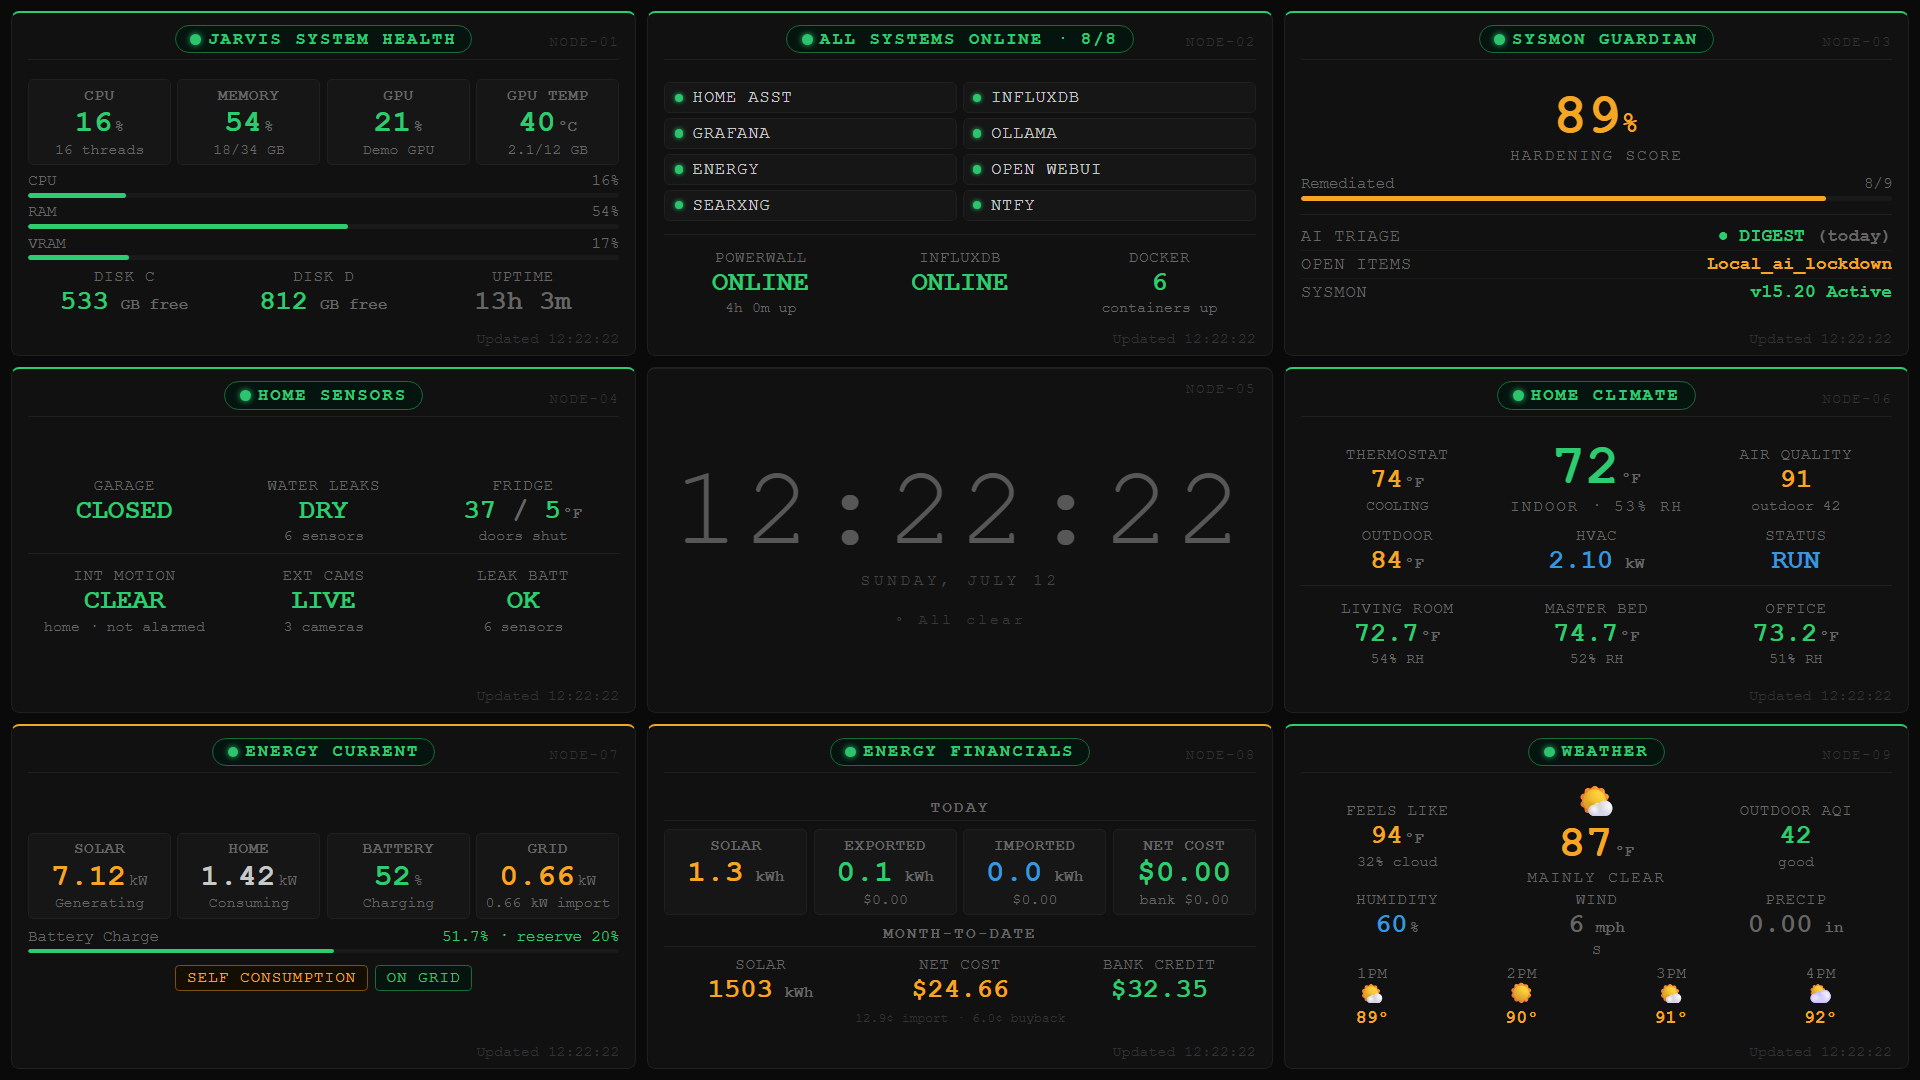
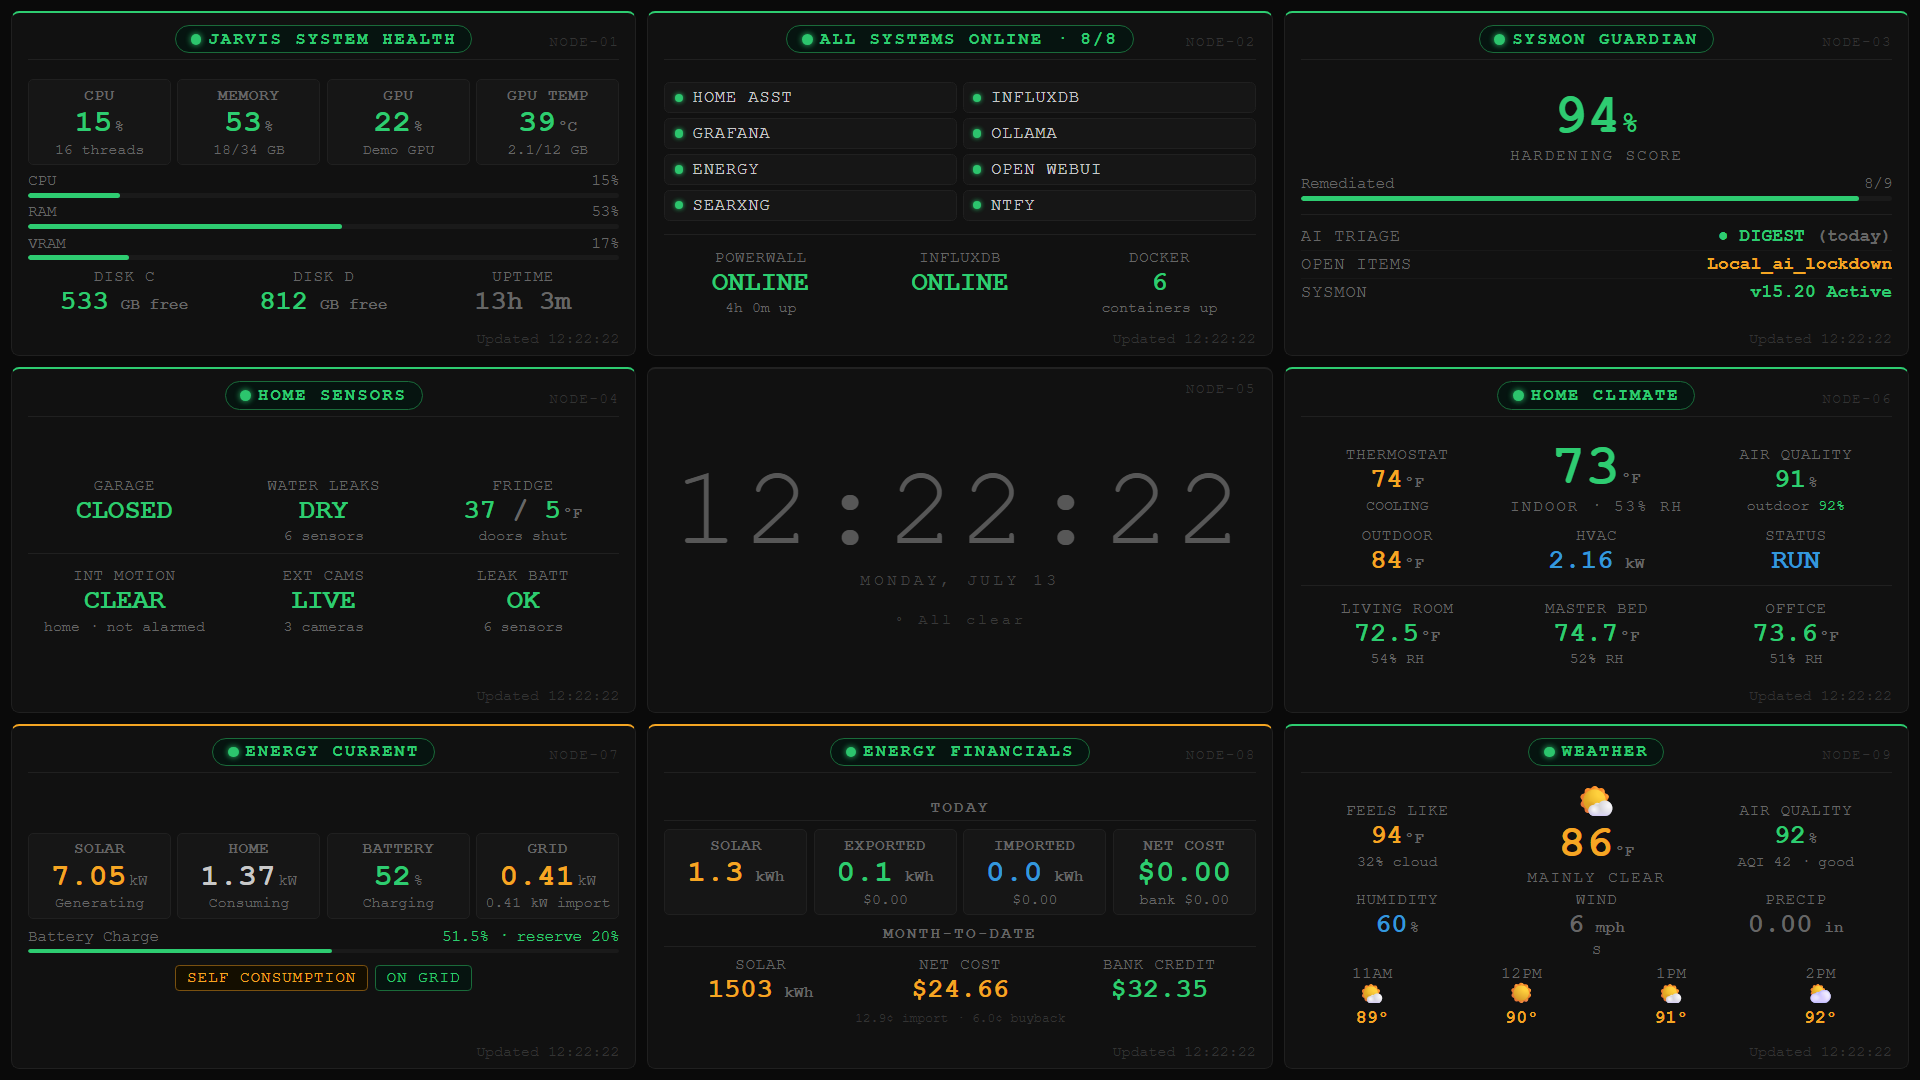
Normalise indoor/outdoor air quality onto one scale
The two AQI readings used opposite scales under the same label: indoor is a
0-100 score (higher = better), outdoor is EPA AQI (lower = better). Good air
read as 94 indoors and 18 outdoors - technically correct, instantly misread.

Both are now converted to a 0-100 'higher is better' score and coloured by one
rule (>=90 good, >=75 fair). The conversion follows the EPA's own category
boundaries, so AQI 50 maps to exactly 90 and the colours never contradict the
official bands - a naive 100-aqi would have painted 'Good' amber.

The raw EPA index is kept in the sub-label, and scores are suffixed with % so
the normalised number can't be mistaken for an EPA reading.

diff --git a/index.html b/index.html
@@ -1297,17 +1297,57 @@ const C2F = c => (c * 9 / 5) + 32;
 const AQI_IN  = E.aqiIndoor  || { entity: '', scale: 'score' };
 const AQI_OUT = E.aqiOutdoor || { entity: '', scale: 'epa' };
 
-function aqiClass(v, scale) {
-  if (v == null || isNaN(v)) return 'muted';
-  return scale === 'epa'
-    ? (v <= 50 ? 'green' : v <= 100 ? 'amber' : 'red')    // lower = better
-    : (v >= 95 ? 'green' : v >= 75  ? 'amber' : 'red');   // higher = better
+// ONE SCALE, BOTH SENSORS.
+//
+// Previously each sensor was coloured correctly for its OWN scale — which was
+// honest but unreadable. The two sat side by side, both labelled "AQI", running
+// in OPPOSITE directions: good air read as 94 indoors and 18 outdoors. On a wall
+// you read a number in half a second. Two contradictory scales under one label
+// is worse than showing nothing, because it looks like it means something.
+//
+// So we NORMALISE instead: every sensor is converted to a 0-100 quality score
+// (higher = better) and then coloured by one rule. The raw EPA index is kept in
+// the sub-label — it's the number every weather app shows, and discarding it
+// would be its own kind of lying.
+//
+// epaToScore() maps EPA AQI along the EPA's OWN category boundaries, so the
+// colours agree with the official bands rather than a convenient straight line:
+//
+//   AQI   0 -> 100      AQI  50 -> 90   (top of "Good"     -> last green)
+//   AQI 100 -> 75       (top of "Moderate" -> last amber)
+//   AQI 150 -> 50       AQI 300+ -> 0
+//
+// A naive 100-aqi would have painted AQI 50 amber and contradicted the EPA
+// calling it "Good". Boundaries matter more than elegance here.
+function epaToScore(aqi) {
+  if (aqi == null || isNaN(aqi)) return null;
+  if (aqi <= 50)  return 100 - aqi * 0.20;           // 100 .. 90
+  if (aqi <= 100) return  90 - (aqi - 50)  * 0.30;   //  90 .. 75
+  if (aqi <= 150) return  75 - (aqi - 100) * 0.50;   //  75 .. 50
+  if (aqi <= 300) return Math.max(0, 50 - (aqi - 150) / 3);
+  return 0;
 }
+
+// Normalise ANY sensor to the 0-100 "higher is better" score, using the scale
+// declared for it in config. Add a scale here if your sensor uses another one.
+function aqiScore(v, scale) {
+  if (v == null || isNaN(v)) return null;
+  return scale === 'epa' ? epaToScore(v) : v;   // 'score' is already normalised
+}
+
+// One rule, every sensor. >=90 good, >=75 fair, else poor.
+function aqiClass(score) {
+  if (score == null || isNaN(score)) return 'muted';
+  return score >= 90 ? 'green' : score >= 75 ? 'amber' : 'red';
+}
+
+// The word stays true to the sensor's NATIVE scale — an EPA reading of 40 is
+// officially "good", and we say so, rather than inventing our own vocabulary.
 function aqiLabelFor(v, scale) {
   if (v == null || isNaN(v)) return '—';
   return scale === 'epa'
     ? (v <= 50 ? 'good' : v <= 100 ? 'moderate' : v <= 150 ? 'unhealthy (sens.)' : 'unhealthy')
-    : (v >= 95 ? 'excellent' : v >= 75 ? 'moderate' : 'poor');
+    : (v >= 90 ? 'excellent' : v >= 75 ? 'moderate' : 'poor');
 }
 
 async function updateClimate() {
@@ -1400,11 +1440,12 @@ from(bucket: "${BUCKETS.homeassistant}")
     setPill('d-climate', 'live', 'HOME CLIMATE');
     $('panel-climate').className = 'panel live-panel';
 
-    // Indoor AQI is a 0-100 quality SCORE (higher = better) — confirmed by
-    // your own automations, which fire when it drops below 95 / 75.
-    // The Daikin outdoor AQI is the opposite (EPA scale, lower = better),
-    // so it is deliberately left uncolored rather than scored on a guess.
-    const aqiCls = aqiIn == null ? 'muted' : aqiIn >= 95 ? 'green' : aqiIn >= 75 ? 'amber' : 'red';
+    // Both sensors normalised onto one scale (see aqiScore above), so the two
+    // numbers finally point the same way and share one colour rule.
+    const aqiInScore  = aqiScore(aqiIn,  AQI_IN.scale);
+    const aqiOutScore = aqiScore(aqiOut, AQI_OUT.scale);
+    const aqiCls      = aqiClass(aqiInScore);
+    const aqiOutCls   = aqiClass(aqiOutScore);
 
     setContent('c-climate', `
       <div class="trio" style="align-items:center;margin-top:0">
@@ -1419,8 +1460,8 @@ from(bucket: "${BUCKETS.homeassistant}")
         </div>
         <div>
           <div class="t-lbl">Air Quality</div>
-          <div class="t-val ${aqiCls}">${aqiIn != null ? aqiIn.toFixed(0) : '—'}</div>
-          <div class="card-sub">${aqiOut != null ? 'outdoor ' + aqiOut.toFixed(0) : '—'}</div>
+          <div class="t-val ${aqiCls}">${aqiInScore != null ? aqiInScore.toFixed(0) : '—'}<span class="card-unit">%</span></div>
+          <div class="card-sub">outdoor <span class="${aqiOutCls}">${aqiOutScore != null ? aqiOutScore.toFixed(0) + '%' : '—'}</span></div>
         </div>
       </div>
       <div class="trio">
@@ -1896,15 +1937,12 @@ from(bucket: "${BUCKETS.homeassistant}")
       if (rows.length) aqiOut = parseFloat(rows[0]._value);
     } catch (_) { /* AQI is optional — never fail the weather panel on it */ }
 
-    const aqiCls = aqiOut == null ? 'muted'
-                 : aqiOut <= 50   ? 'green'     // Good
-                 : aqiOut <= 100  ? 'amber'     // Moderate
-                 : 'red';                       // Unhealthy
-    const aqiLabel = aqiOut == null ? '—'
-                   : aqiOut <= 50   ? 'good'
-                   : aqiOut <= 100  ? 'moderate'
-                   : aqiOut <= 150  ? 'unhealthy (sens.)'
-                   : 'unhealthy';
+    // Same normalisation as the Climate tile — the two tiles must never disagree
+    // about the same sensor. Shared helpers, not a second copy: two copies drift,
+    // and then the deck contradicts itself, which is the whole bug we're fixing.
+    const aqiOutScore = aqiScore(aqiOut, AQI_OUT.scale);
+    const aqiCls      = aqiClass(aqiOutScore);
+    const aqiLabel    = aqiLabelFor(aqiOut, AQI_OUT.scale);
 
     const d  = await GET(`${CFG.PW}/api/weather-forecast`).then(r => r.json());
     const c  = d.current || {};
@@ -1940,9 +1978,11 @@ from(bucket: "${BUCKETS.homeassistant}")
           <div class="gauge-sub">${(c.desc || '').toUpperCase() || '—'}</div>
         </div>
         <div>
-          <div class="t-lbl">Outdoor AQI</div>
-          <div class="t-val ${aqiCls}">${aqiOut != null ? aqiOut.toFixed(0) : '—'}</div>
-          <div class="card-sub">${aqiLabel}</div>
+          <div class="t-lbl">Air Quality</div>
+          <div class="t-val ${aqiCls}">${aqiOutScore != null ? aqiOutScore.toFixed(0) : '—'}<span class="card-unit">%</span></div>
+          <div class="card-sub">${aqiOut != null && AQI_OUT.scale === 'epa'
+            ? 'AQI ' + aqiOut.toFixed(0) + ' · ' + aqiLabel
+            : aqiLabel}</div>
         </div>
       </div>
       <div class="trio">

diff --git a/config.example.js b/config.example.js
@@ -108,12 +108,22 @@ window.JARVIS_CONFIG = {
     hvacPower: ['hvac_outdoor_power'],
 
     // Air quality.
-    // ⚠ These two often use OPPOSITE scales. An indoor air-quality monitor
-    // usually reports a 0-100 SCORE (higher = better); an outdoor sensor
-    // reports EPA AQI (LOWER = better). Declare the scale so the colours
-    // actually mean something.
-    aqiIndoor:  { entity: 'sensor.indoor_air_quality_index', scale: 'score' }, // higher = better
-    aqiOutdoor: { entity: 'sensor.outdoor_aqi',              scale: 'epa'   }, // lower  = better
+    // ⚠ These two almost always use OPPOSITE scales. An indoor monitor reports
+    // a 0-100 SCORE (higher = better); an outdoor sensor reports EPA AQI
+    // (LOWER = better). Shown side by side under one "AQI" label, good air
+    // reads as 94 indoors and 18 outdoors — which is unreadable at a glance,
+    // and a wall display is only ever read at a glance.
+    //
+    // Declare the scale and the deck NORMALISES both onto the same 0-100
+    // "higher is better" score, then colours them with one rule (>=90 good,
+    // >=75 fair). The raw EPA index is still shown in the sub-label, because
+    // it's the number every weather app quotes.
+    //
+    // 'score' — already 0-100, higher is better. Used as-is.
+    // 'epa'   — EPA AQI, converted via epaToScore() along the EPA's own band
+    //           boundaries (AQI 50 -> 90, 100 -> 75, 150 -> 50).
+    aqiIndoor:  { entity: 'sensor.indoor_air_quality_index', scale: 'score' },
+    aqiOutdoor: { entity: 'sensor.outdoor_aqi',              scale: 'epa'   },
 
     // Room temps at the bottom of NODE-06.
     zones: [

diff --git a/README.md b/README.md
@@ -269,11 +269,27 @@ Two tiles printed *"CORS Blocked"* regardless of the actual error. One was reall
 `unsupported aggregate column type string` — a measurement with no numeric field, being
 fed to `mean()`. I chased CORS twice. **Print the real error.**
 
-### 3. Same word, opposite meaning
+### 3. Same word, opposite meaning — and honest isn't the same as readable
 
 An indoor air-quality monitor reports a 0–100 **score** (higher = better). An outdoor
-sensor reports **EPA AQI** (lower = better). Both are called "AQI". Colour them the same
-way and your dashboard is confidently lying. `config.js` declares the scale per sensor.
+sensor reports **EPA AQI** (lower = better). Both are called "AQI".
+
+The first fix was to colour each one correctly for its own scale. That was *honest* and
+still *unreadable*: two numbers, side by side, under one label, running in opposite
+directions. Good air showed as **94 indoors and 18 outdoors**. You read a wall display in
+half a second — and in half a second, that looks like the inside of your house is filthy.
+
+The real fix is to **normalise, then colour once**. Both sensors are converted to a 0–100
+"higher is better" score and share a single rule. The raw EPA index survives in the
+sub-label, because that's the number every weather app quotes and throwing it away would
+be its own kind of lying.
+
+Convert along the source's **own category boundaries**, not a convenient straight line.
+A naive `100 - aqi` maps EPA 50 to a score of 50 — painting amber over a reading the EPA
+itself calls "Good". The piecewise map pins AQI 50 to exactly 90, so the colours agree
+with the official bands at every boundary.
+
+**A number that is technically correct and instantly misread is still a bug.**
 
 ### 4. Two sensors can measure the same electricity
 